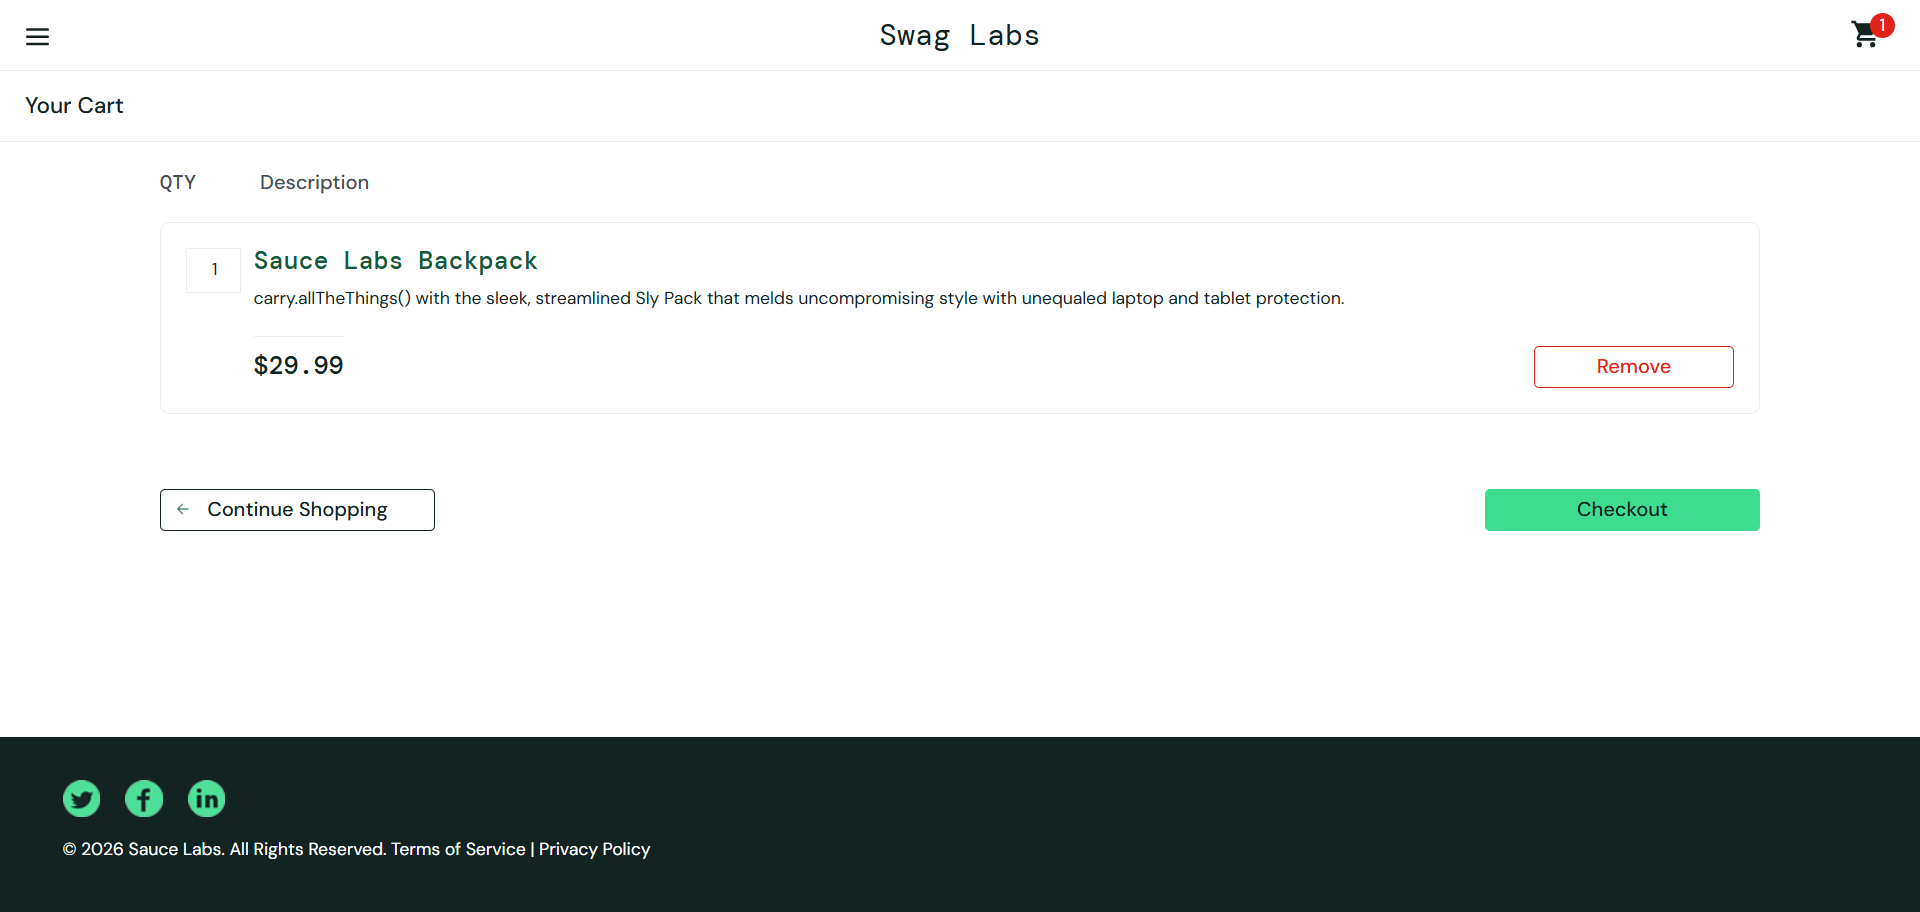
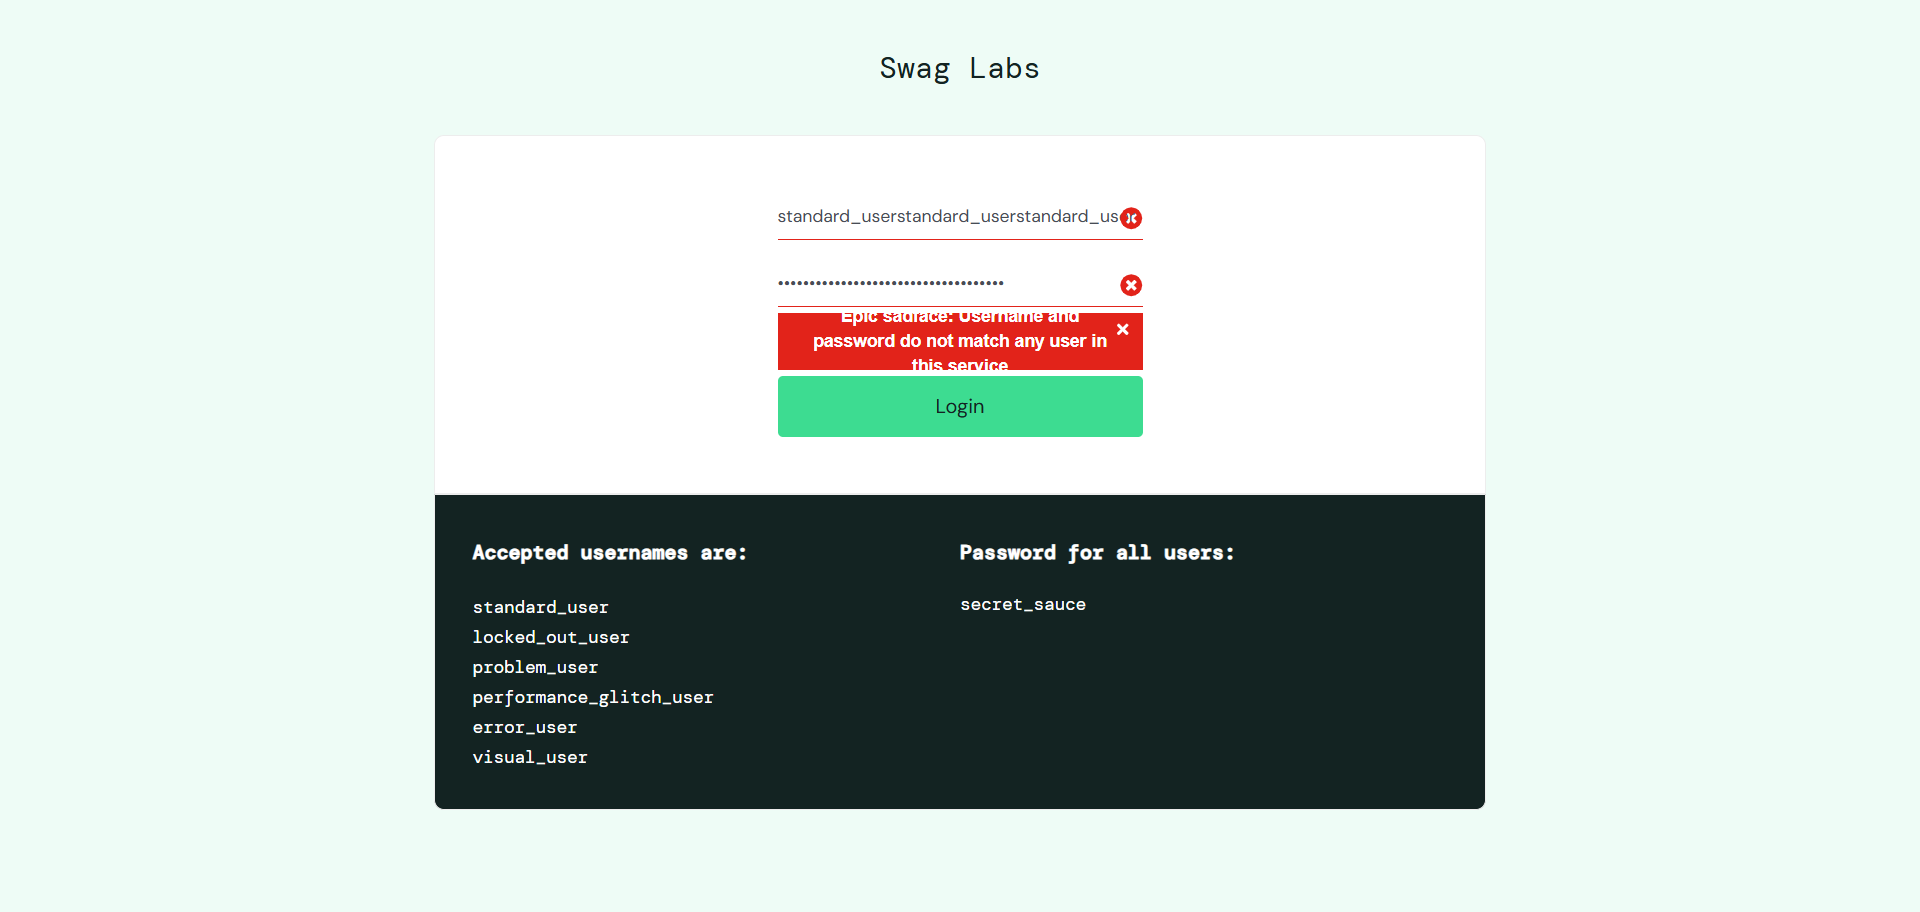
added lombok dependency

diff --git a/test-output/AutomationReport.html b/test-output/AutomationReport.html
@@ -417,3 +417,6 @@ infoEvents: 0
 <script src="https://cdn.jsdelivr.net/gh/extent-framework/extent-github-cdn@d6562a79075e061305ccfdb82f01e5e195e2d307/spark/js/spark-script.js"></script>
 <script type="text/javascript"></script></body>
 </html>
+
+
+Kranthi Kumar
